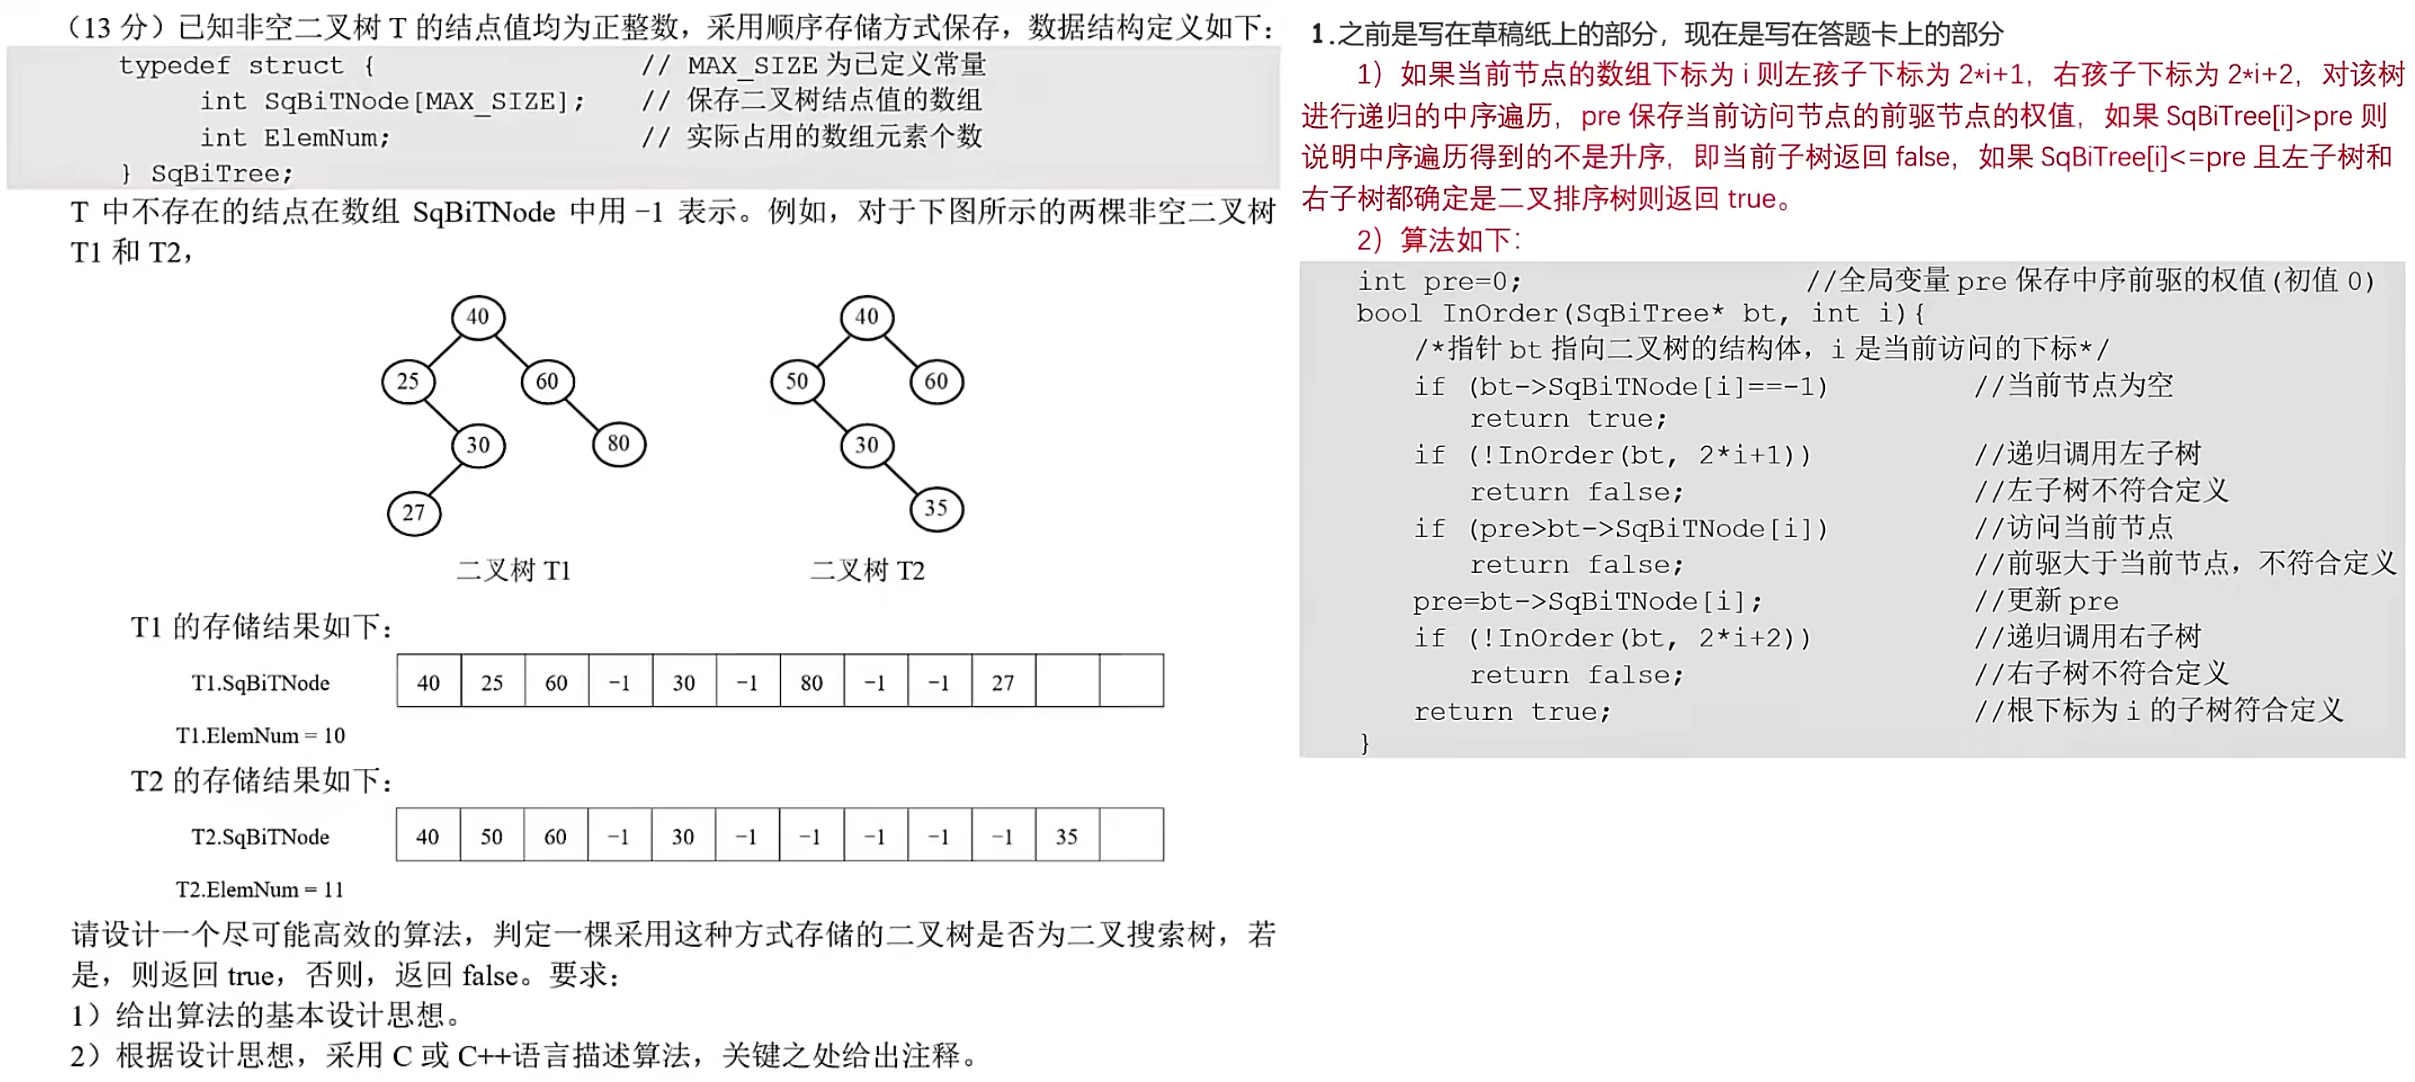
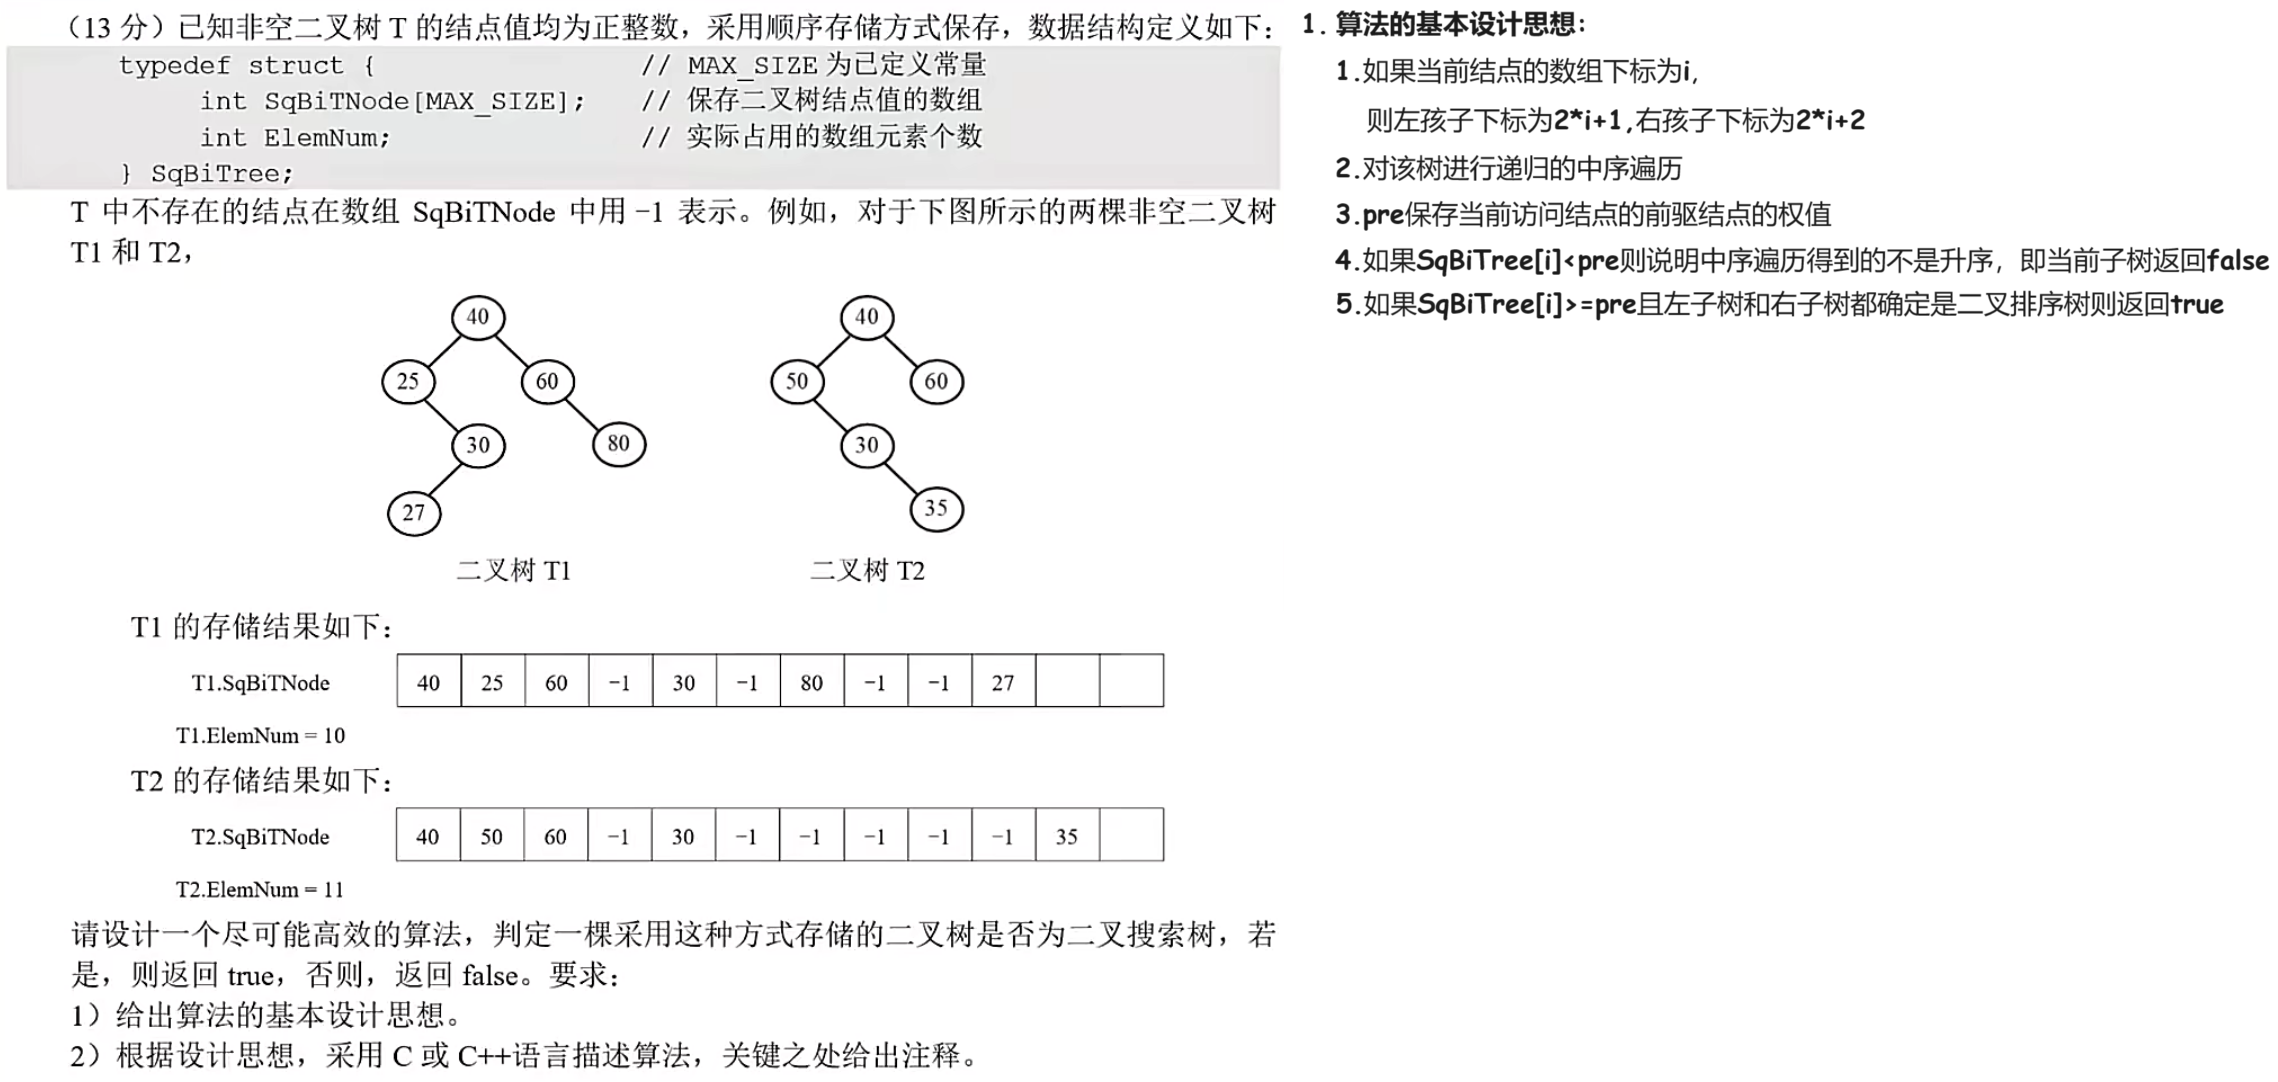
231018

diff --git a/04 每日一题/09 22 数据结构 二叉树前中后序遍历 231013 D29/01 Note.md b/04 每日一题/09 22 数据结构 二叉树前中后序遍历 231013 D29/01 Note.md
@@ -1,12 +1,12 @@
 # 题目
 
-<img src="https://cvp.oss-cn-shanghai.aliyuncs.com/picgo/202310131829931.png" alt="image-20231013182958748" style="zoom: 60%;" />
+<img src="https://cvp.oss-cn-shanghai.aliyuncs.com/picgo/202310131829931.png" alt="image-20231013182958748" style="zoom: 50%;" />
 
 
 
 # 答案
 
-![image-20231016100424844](https://cvp.oss-cn-shanghai.aliyuncs.com/picgo/202310161004211.png)
+<img src="https://cvp.oss-cn-shanghai.aliyuncs.com/picgo/202310181423838.png" alt="image-20231018142338653" style="zoom:50%;" />
 
 
 
